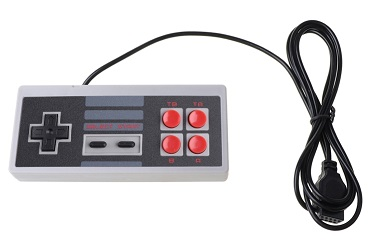
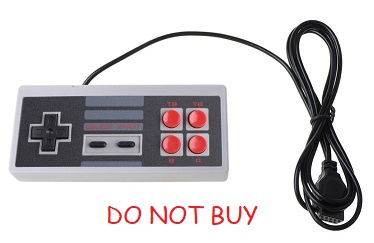
Update NES controller info in README

Changed region(s): [[0.2647, 0.8354, 0.7059, 0.9506]]

diff --git a/README.md b/README.md
@@ -32,18 +32,25 @@ Suggested sources for components are given in the BOM, or to save a few pennies 
 
 The PicoGAME is compatible with NES/Famicom "clone" gamepads with female DB-9/DE-9 plugs as shown below:
   
-![Gamepad 1](images/gamepad1.jpg)
-![Gamepad 2](images/gamepad2.jpg)
+![Gamepad 3](images/gamepad3.jpg)
 
 Notes:
  1. Though they appear to have 4 fire-buttons these gamepads really only have 2: A & B. The other two are the "autofire/turbo" buttons and just simulate A or B being rapidly and repeatedly pressed.
  2. Make sure you get gamepads with 9-pin female DB-9/DE-9 plugs, not ones with the official NES 7-pin plug or those with USB-A connectors designed for use with modern PCs.
 
-They can be obtained from the following AliExpress vendors - **these are just examples, not affiliate links and I take no responsibility for the quality of the goods:**
+I bought mine from this AliExpress link: https://www.aliexpress.com/item/32803427153.html.
 
- - https://www.aliexpress.com/item/32919127872.html
- - https://www.aliexpress.com/item/32803427153.html
- - and many others.
+**WARNING!** There are lots of nominally NES/Famicom (and SNES) clone 9-pin gamepads on AliExpress and some of them are useless; or at least I, and several others, have received useless ones.
+
+There is certainly a batch of ones that look like this with mechanically poor D-pads that don't give clear UP and RIGHT signals:
+
+![Gamepad 1](images/gamepad1.jpg)
+
+But this almost identical (the grey buttons are the most obvious visual difference) seems to be good:
+
+<img src='images/gamepad4.jpg' width='400'>
+
+Unfortunately I've received mixed batches of both of these advertised using a picture of the first - it appears even the vendors are not paying attention ¯\\_(ツ)_/¯.
 
 ## What joysticks can I use ?
 
@@ -51,11 +58,9 @@ The PicoGAME is compatible with Atari style single-button digital joysticks with
   
 ![Atari Joystick](images/joystick.jpg)
 
-They can be obtained from the following eBay and AliExpress vendors - **these are just examples, not affiliate links and I take no responsibility for the quality of the goods:**
+I bought mine from this AliExpress link: https://www.aliexpress.com/item/1005003590552924.html, and there are other vendors selling similar items on AliExpress and eBay.
 
- - https://www.ebay.co.uk/itm/194000895590
- - https://www.aliexpress.com/item/1005003590552924.html
- - and many others.
+*Note that if my experience with gamepads is anything to go by then these are being produced by multiple cheap Chines manufacturers and there may be significant variation in quality - let the buyer beware!*
 
 ## Is there a Wiki ?
   
